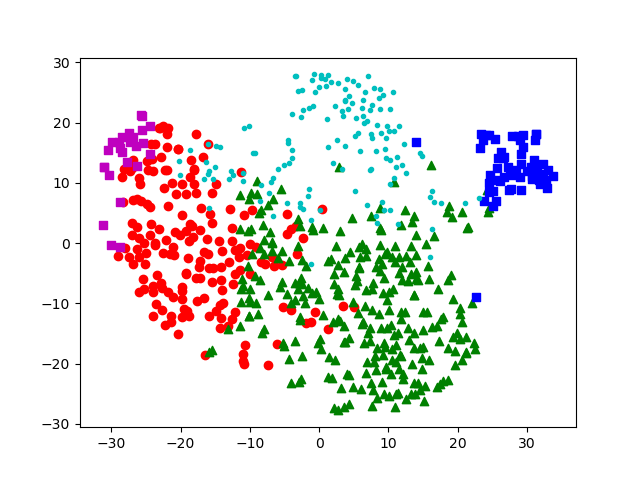
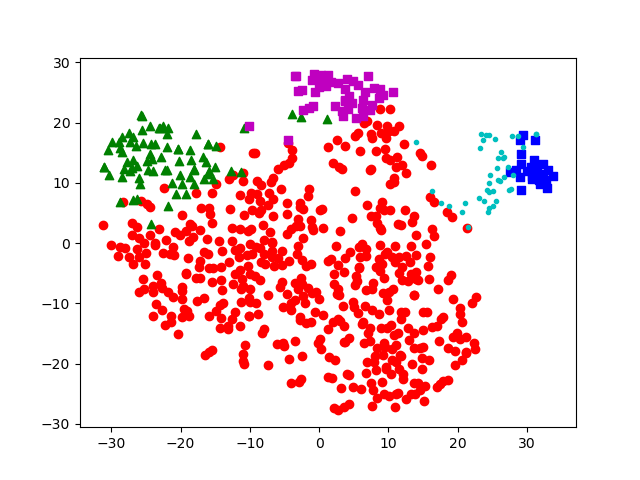
Added Agglomerative clustering

diff --git a/clustering.py b/clustering.py
@@ -1,3 +1,4 @@
+import numpy
 import pandas as pd
 import numpy as np
 import matplotlib.pylab as plt
@@ -13,6 +14,7 @@ from sklearn.mixture import GaussianMixture as expectationMaximization
 from sklearn.cluster import SpectralClustering
 from sklearn.cluster import Birch
 from scipy.stats import wilcoxon
+from sklearn.cluster import AgglomerativeClustering
 
 # Complement Lists used to manage the data
 lisstd = []
@@ -23,6 +25,7 @@ acc = {}
 accBoth={}
 Tp={}
 kmeansArr=[]
+WBACCC=[]
 # Lists used to plot the TSNE 2 teg
 colors = ['r', 'g', 'b', 'c', 'm', 'y', 'k', 'grey', 'orange', 'purple']
 markers = ['o', '^', 's', '.', ',', 'x', '+', 'v', 'd', '>']
@@ -68,14 +71,12 @@ def Cure(input_data, n):
     pred = cure_instance.labels_
     print(pred)
     print("ACC: " + str(accuracy_score(pred, labels)))
-    acc["CURE" + str(n)] = str(accuracy_score(pred, labels))
+    acc["CURE" ] = str(accuracy_score(pred, labels))
 
     valLP, valVt, ACC = confusionMatrix(pred, labels)
     accBoth['CURE' + str(n)] = (valVt, valLP, ACC)
     TPR,TNR = valuesConfussion(pred, labels)
     Tp['Cure'+str(n)]= TPR,TNR
-
-
     #tsnePlot(pred, n, input_data, 'CURE')
 
 
@@ -199,6 +200,22 @@ def BFR(Mat, n, shape):
 
     #tsnePlot(pred, n, Mat, 'BFR')
 
+# kmeans implemenation
+def agglomerative(X, n):
+    aglomerative = AgglomerativeClustering(n_clusters=n, affinity='l1', linkage="complete").fit(X)
+
+    pred = aglomerative.labels_
+    print(pred)
+    print("ACC: \n" + str(accuracy_score(pred, labels)))
+    acc['Agglomerative' + str(n)] = accuracy_score(pred, labels)
+
+    # valLP, valVt, ACC = confusionMatrix(pred, labels)
+    # accBoth['Kmeans' + str(n)] = (valVt, valLP, ACC)
+    # TPR, TNR = valuesConfussion(pred, labels)
+    # Tp['Kmeans' + str(n)] = TPR, TNR
+
+    tsnePlot(pred, n, X, 'AGLOME')
+
 # testing for finding best hiperparameters with brute force
 def OptimizationBruteForce():
     for branch in range(2,100):
@@ -299,19 +316,24 @@ def valuesConfussion(prediction, trueLabels):
 
     # Overall accuracy
     ACC = (TP + TN) / (TP + FP + FN + TN)
+    bAcc = (TPR+TNR)/2
 
-    # print("FP:"+ str(FP))
-    # print("FN:"+str(FN))
-    # print("TP:"+str(TP))
-    # print("FN:"+str(TN))
-    # print("TPR:"+str(TPR))
-    # print("TNR:"+str(TNR))
-    # print("PPV:"+str(PPV))
-    # print("NPV:"+str(NPV))
-    # print("FPR:"+str(FPR))
-    # print("FNR:"+str(FNR))
-    # print("FDR:"+str(FDR))
-    # print("ACC:"+str(ACC))
+
+    print("FP:"+ str(FP))
+    print("FN:"+str(FN))
+    print("TP:"+str(TP))
+    print("FN:"+str(TN))
+    print("TPR:"+str(TPR))
+    print("TNR:"+str(TNR))
+    print("PPV:"+str(PPV))
+    print("NPV:"+str(NPV))
+    print("FPR:"+str(FPR))
+    print("FNR:"+str(FNR))
+    print("FDR:"+str(FDR))
+    print("ACC:"+str(ACC))
+    print("BACC:" + str(bAcc))
+    print(f"WBACC {bAcc.sum()/bAcc.size}")
+    WBACCC.append(bAcc.sum()/bAcc.size)
 
     print("\n ACA \n")
 
@@ -344,7 +366,7 @@ if __name__ == '__main__':
     labels3= pd.read_csv('LABELS3.csv', header=None)
 
     print(path)
-    testWilcoTres()
+    #testWilcoTres()
 
     #Printing original dataset with original Labels
     #tsnePlot(labels.to_numpy().ravel(),2,matrix.to_numpy(),'raw')
@@ -352,37 +374,47 @@ if __name__ == '__main__':
     #tsnePlot(labels3.to_numpy().ravel(), 3, matrix.to_numpy(), 'raw')
 
     # Starting BFR tests so branch new test
-    print("BFR TEST:\n")
-    for i in range(3, 4):
-        BFR(matrix, i, matrix.shape[1])
+    # print("BFR TEST:\n")
+    # for i in range(2, 11):
+    #     BFR(matrix, i, matrix.shape[1])
 
+    # # Start Exp. Max test
+    # print("EXPECTATION MAXIMIZATION  TEST:\n")
+    # for i in range(2,11):
+    #     ExpectationMMaximization(matrix, i)
 
-    # Start kmenas Test
-    print("K MEANS  TEST:\n")
-    for i in range(3, 4):
-        kmeans(matrix, i)
+    # # Start kmenas Test
+    # print("K MEANS  TEST:\n")
+    # for i in range(2, 11):
+    #     kmeans(matrix,i)
 
     # Start Cure test
-    print("CURE  TEST:\n")
-    for i in range(3, 4):
-        Cure(matrix, i)
+    # print("CURE  TEST:\n")
+    # for i in range(2, 11):
+    #     Cure(matrix,i)
+    #
+    # # Start Exp. Max test
+    # print("EXPECTATION MAXIMIZATION  TEST:\n")
+    # for i in range(2, 4):
+    #     ExpectationMMaximization(matrix, i)
+    #
+    # # Start Spectral test
+    # print("SPECT  TEST:\n")
+    # for i in range(2, 11):
+    #     spect(matrix, i)
+    #
+    # # Start Birch test
+    # print("BIRCH  TEST:\n")
+    # for i in range(2, 11):
+    #     #Best hiperparameters for birch
+    #     birch(matrix, i, 0.75, 53)
 
-    # Start Exp. Max test
-    print("EXPECTATION MAXIMIZATION  TEST:\n")
-    for i in range(2, 4):
-        ExpectationMMaximization(matrix, i)
+    # #Print of all ACC results
 
-    # Start Spectral test
-    print("SPECT  TEST:\n")
-    for i in range(2, 4):
-        spect(matrix, i)
-
-    # Start Birch test
-    print("BIRCH  TEST:\n")
-    for i in range(2, 4):
-        #Best hiperparameters for birch
-        birch(matrix, i, 0.75, 53)
-
-    #Print of all ACC results
+    # Start Agglomerative test
+    print("AGGLOMERATIVE  TEST:\n")
+    for i in range(2, 10):
+        agglomerative(matrix, i)
     print(acc)
     print(accBoth)
+    # numpy.savetxt("SpectWbAcc.csv", WBACCC,fmt='%f', delimiter=",")
